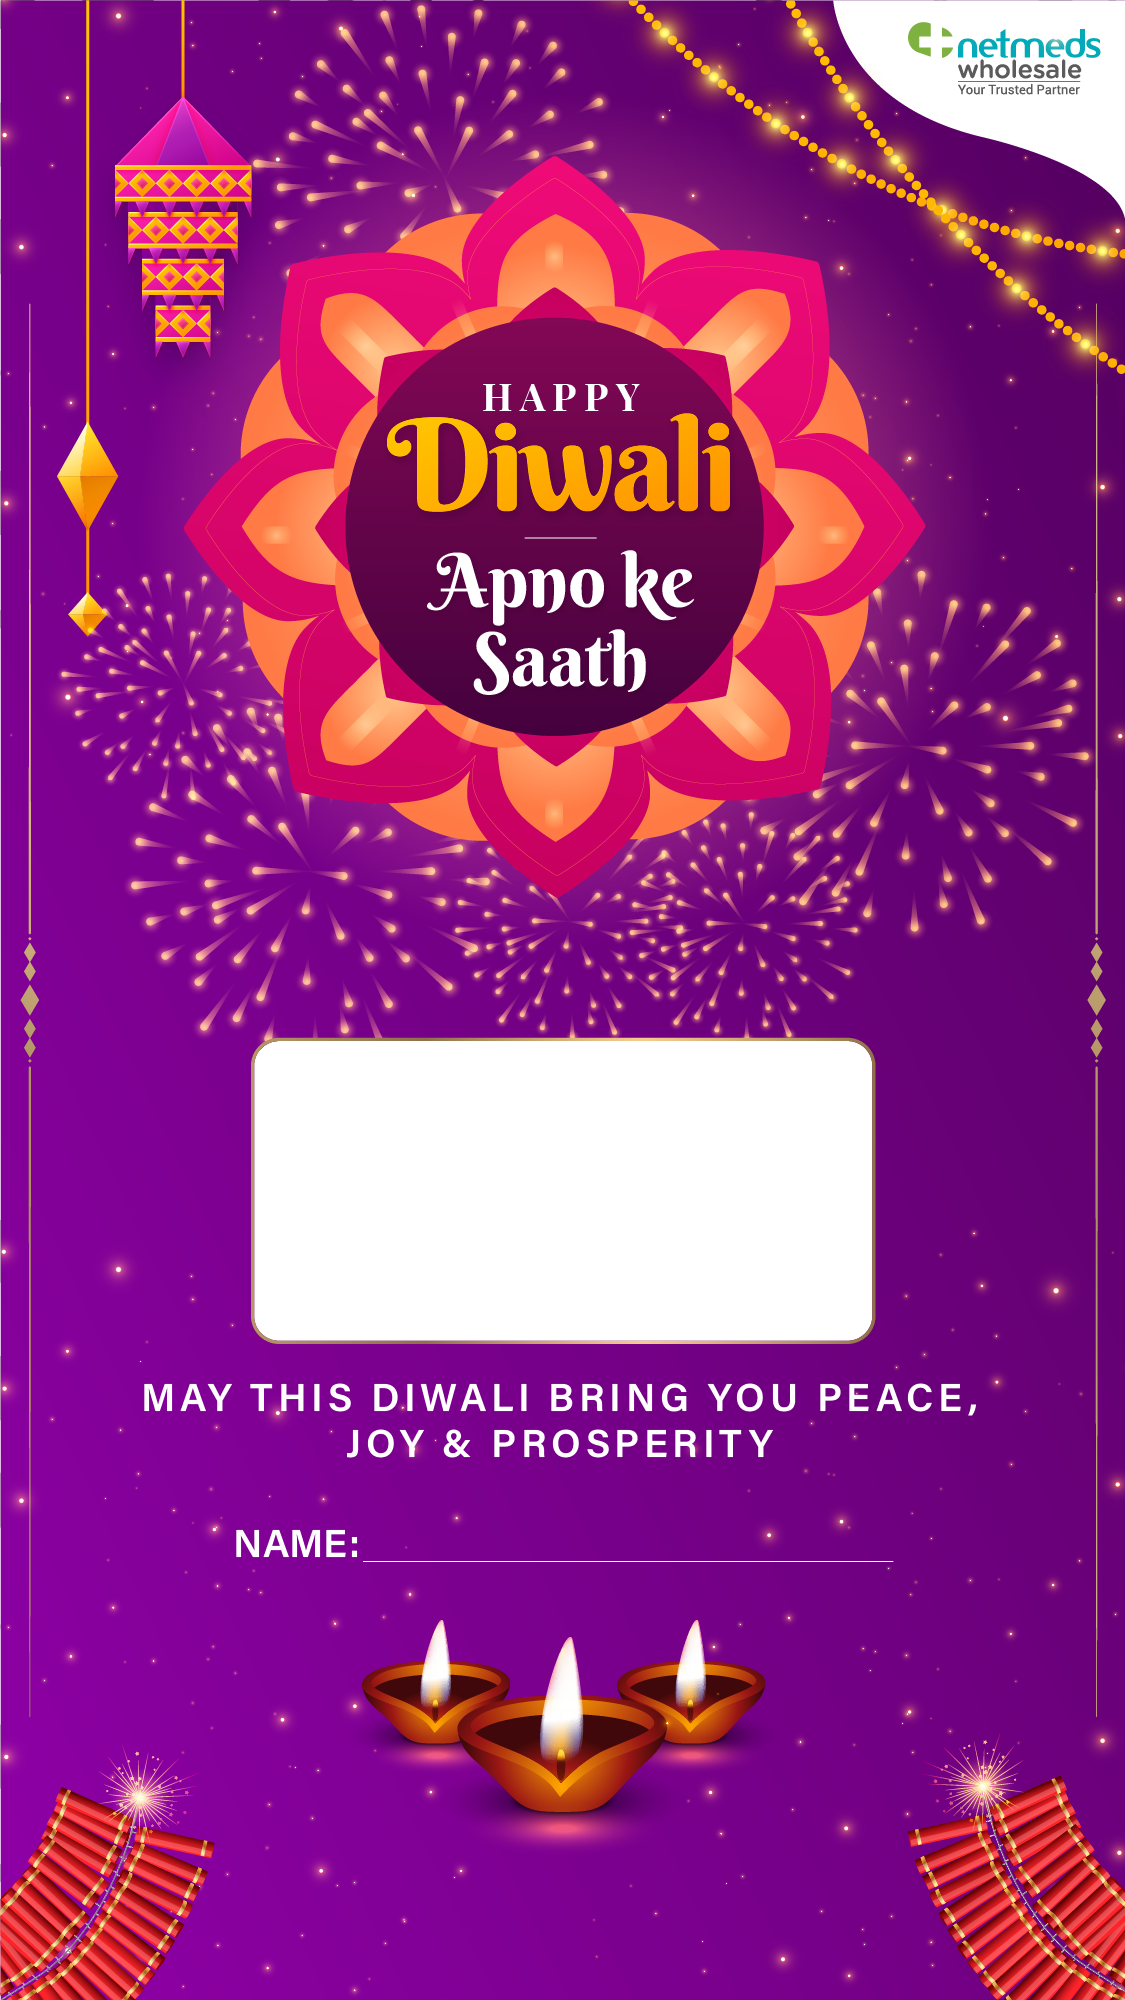
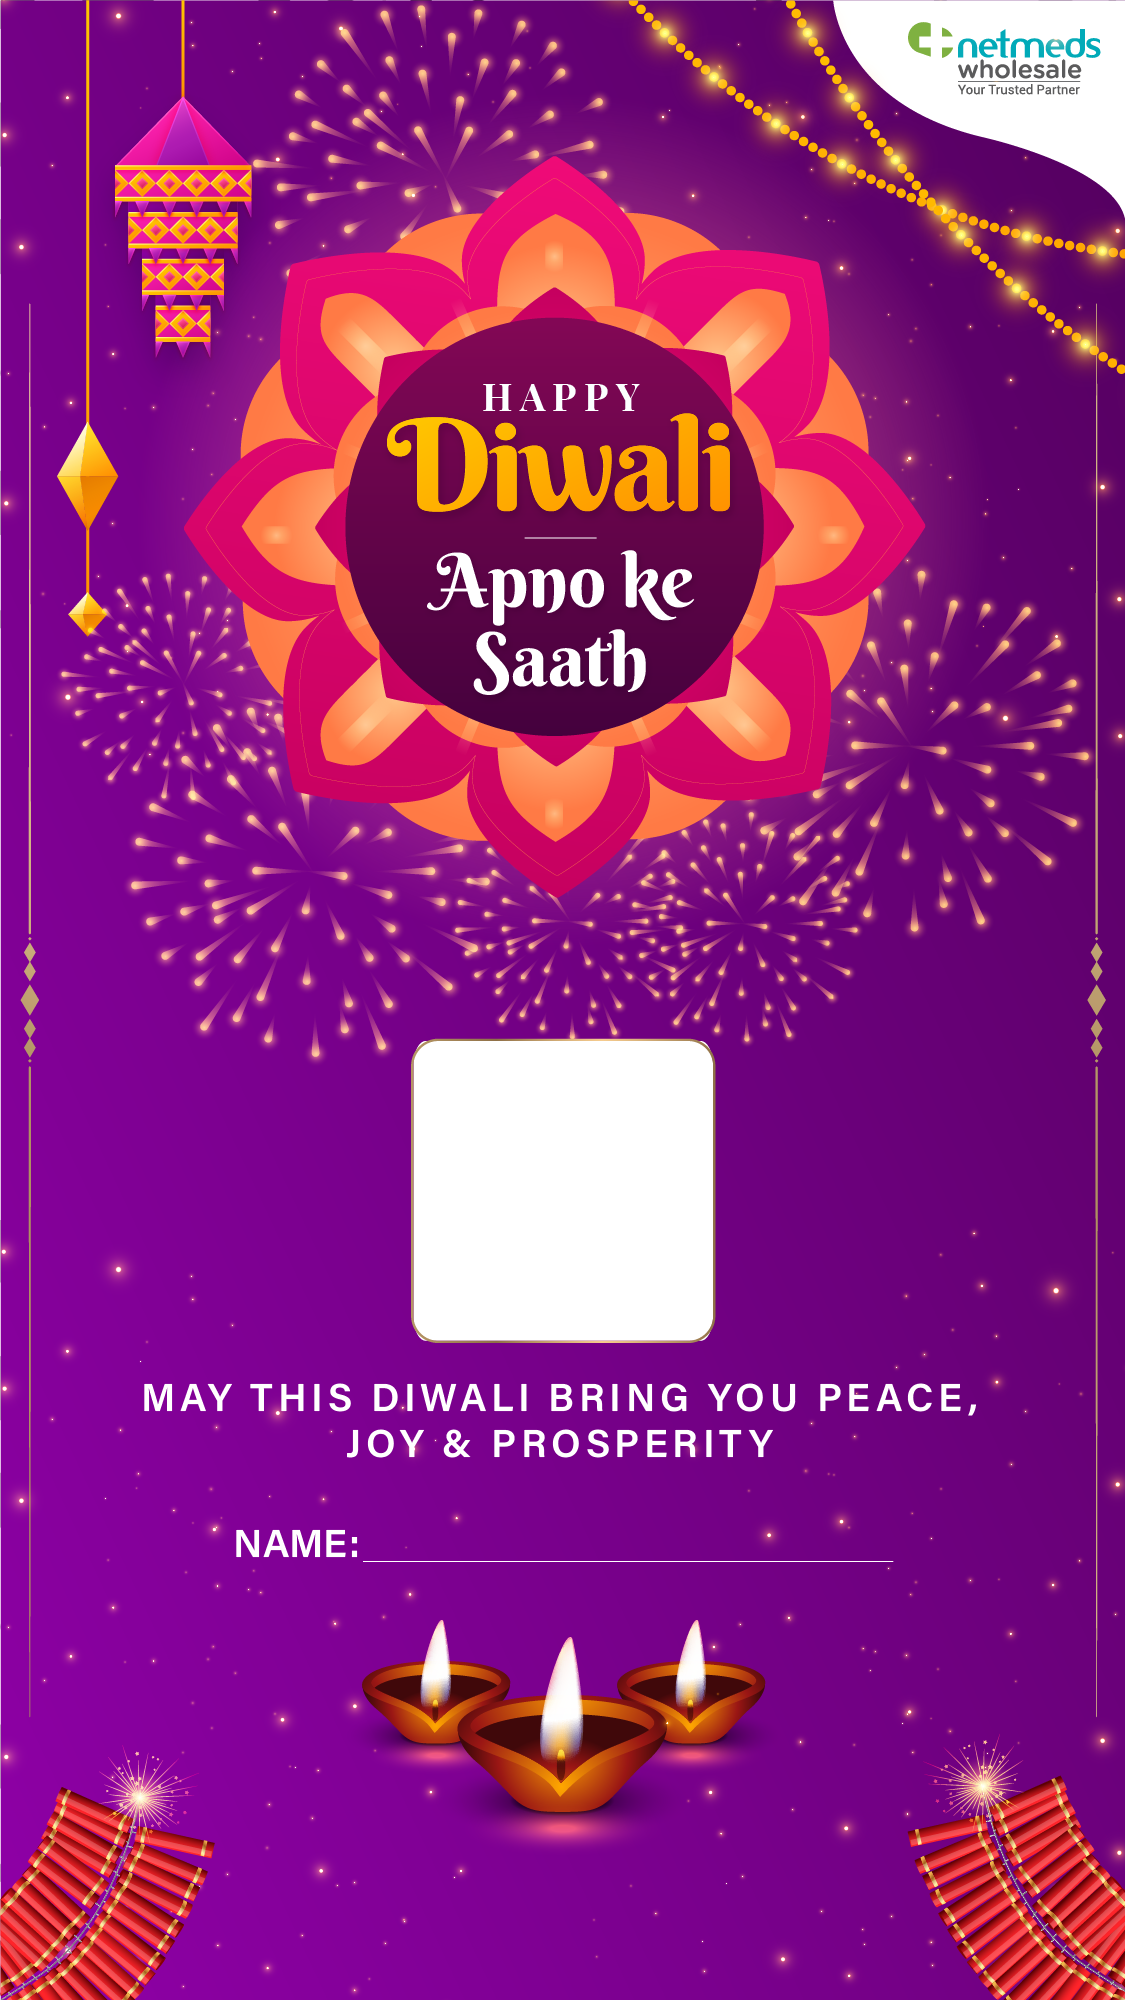
changes

Changed region(s): [[0.6222, 0.496, 0.7778, 0.682], [0.2178, 0.496, 0.3733, 0.682]]

diff --git a/templates/netmeds/diwali-create.html b/templates/netmeds/diwali-create.html
@@ -114,11 +114,11 @@
                 style="width: 359px; height: 624px; background-image: url(/assets/images/diwali-2.png);background-size: cover; background-position: center; background-repeat: no-repeat; object-fit: contain;">
 
                 <div class="btndiv" id="div-user-img" style="margin-top: 10px;">
-                    <img src="" id="user-img" alt="user-img" style="width: 192px; height: 88px;">
+                    <img src="" id="user-img" alt="user-img" style="width: 96px; height: 97px;">
                 </div>
                 <div class="btndiv" style="margin-top: 10px;">
-                    <img src="/assets/images/WeCare_Diwali_img_upload-icon2.png" id="upload-img" alt="upload-img"
-                        style="width: 192px;" onclick="imgBrows()">
+                    <img src="/assets/images/WeCare_Diwali_img_upload-icon.png" id="upload-img" alt="upload-img"
+                        style="width: 98px;" onclick="imgBrows()">
                 </div>
                 <div class="btndiv" id="div-user-input" style="top: 483px; left: 192px;">
                     <input type="text" id="input-name" class="user-input" placeholder="Your name">
@@ -193,7 +193,7 @@
                     alert("please try again");
                     return;
                 }
-                
+
                 var link = document.createElement('a');
                 link.download = 'diwali-netmeds.jpeg';
                 link.href = resp.img;

diff --git a/controllers/netmeds.py b/controllers/netmeds.py
@@ -154,8 +154,8 @@ def netmeds_diwali_create(empid):
     finalImg = Image.new('RGB', frame.size, color = 'white')
     canvas = ImageDraw.Draw(finalImg)
     
-    user = user.resize((620, 310))
-    finalImg.paste(user, (250, 1030))
+    user = user.resize((310, 310))
+    finalImg.paste(user, (410, 1040))
     finalImg.paste(frame, (0, 0), frame)
 
     tmpY = 1520

diff --git a/imgcreate.py b/imgcreate.py
@@ -12,8 +12,8 @@ def main():
     finalImg = Image.new('RGB', frame.size, color = 'white')
     canvas = ImageDraw.Draw(finalImg)
 
-    user = user.resize((620, 310))
-    finalImg.paste(user, (250, 1030))
+    user = user.resize((310, 310))
+    finalImg.paste(user, (410, 1040))
     finalImg.paste(frame, (0, 0), frame)
 
     tmpY = 1520
